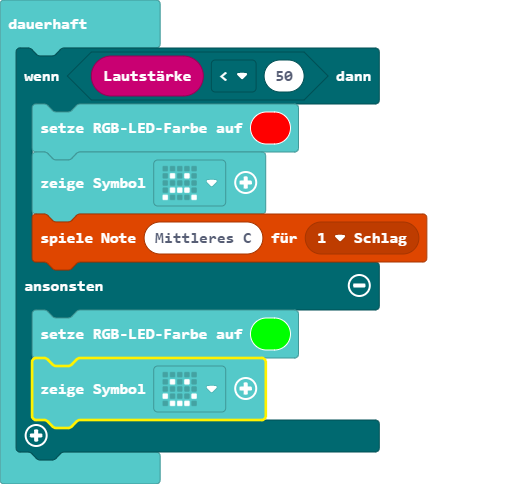
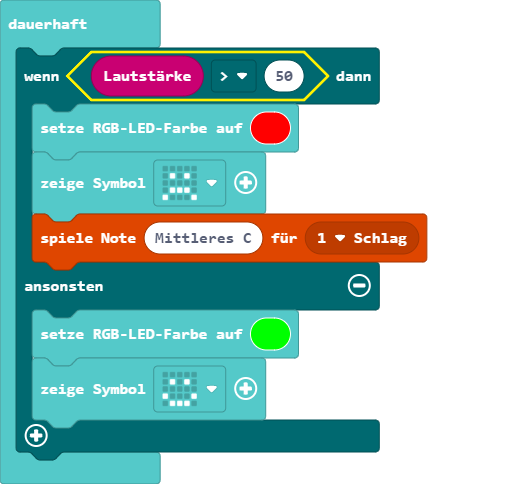
Aktualisiere main.blocks, main.ts

Changed region(s): [[0.0301, 0.7128, 0.5122, 0.8988], [0.1507, 0.093, 0.6328, 0.2169], [0.1205, 0.124, 0.1507, 0.186]]

diff --git a/main.ts b/main.ts
@@ -1,5 +1,5 @@
 basic.forever(function () {
-    if (input.soundLevel() < 50) {
+    if (input.soundLevel() > 50) {
         basic.setLedColor(0xff0000)
         basic.showIcon(IconNames.Sad)
         music.playTone(262, music.beat(BeatFraction.Whole))
